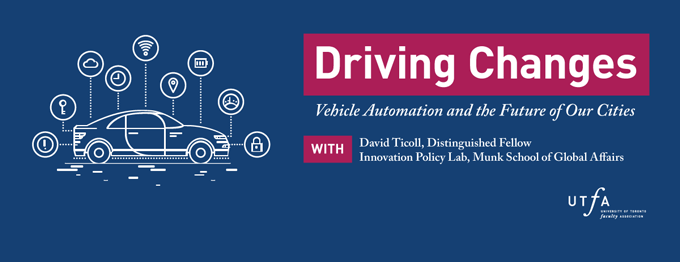
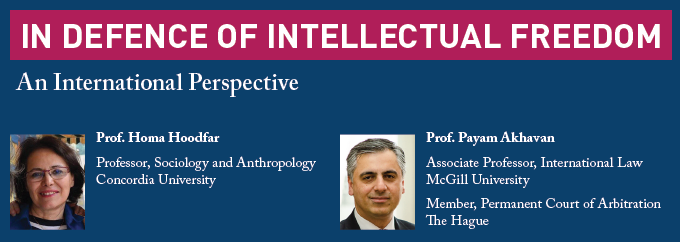
content

diff --git a/cerberus-hybrid.html b/cerberus-hybrid.html
@@ -193,21 +193,31 @@
 						<tr>
 						<td style="padding: 20px; font-family: sans-serif; font-size: 15px; mso-height-rule: exactly; line-height: 20px; color: #555555;">
 							<p>Dear Colleagues,</p>
-							
-							<p>The UTFA Retired Members Committee is hosting a special event, and all UTFA members are invited to attend.</p>
-							
-							<p>David Ticoll, Distinguished Fellow, Innovation Policy Lab, Munk School of Global Affairs, will describe what self-driving cars, trucks and (even) drones are all about, if and when they will become commonplace, the upsides and risks, and what these changes mean for our families, neighbours, and the Canadian economy. He will also discuss some of the key policy and planning choices that we must face. </p>
-							
-							<p>The event will take place on Wednesday, November 24, from 2:00 to 4:30pm at the <a href="https://goo.gl/maps/v6RWgSiRf6L2">Faculty Club, 41 Willcocks St</a>.</p>
-							
-							<p>To attend, RSVP to <a href="mailto:faculty@utfa.org">faculty@utfa.org</a>.</p>
-							
-							<p>If you would like to encourage other members to come, you may also send them to the information page <a href="http://www.utfa.org/content/driving-changes-vehicle-automation-and-future-our-cities">on the UTFA website</a> or <a href="https://www.facebook.com/events/187283188395193/">on Facebook</a>.</p>
-							
+
+							<p>On Friday, February 3, UTFA is hosting a special public event, and all UTFA members  are invited to attend.</p>
+							<p>Professor Mohamad Tavakoli (U of T) will moderate a special panel featuring Professors Homa Hoodfar (Concordia) and Payam Akhavan (McGill), who will discuss intellectual freedom and its international importance.</p>
+							<p>UTFA was active in campaigning for Professor Hoodfar's release from solitary confinement in Iran's Evin prison, where she was held for 112 days in 2016 on accusations of "dabbling in feminism." She was released on September 26, 2016. Professor Hoodfar teaches and researches development, culture and gender in the Middle East.</p>
+              <p>Professor Akhavan teaches international criminal law and dispute settlement, human rights and cultural pluralism. Having appeared as counsel and advocate in leading cases before the International Court of Justice, the International Criminal Court and the Permanent Court of Arbitration, in 2016 he was appointed a Member of the Permanent Court of Arbitration (PCA) in The Hague.</p>
+							<p>The event will take place on Friday, February 3, from 3:30 to 6:30pm at the <a href="http://bit.ly/idoif-map">U of T Earth Sciences Auditorium, 5 Bancroft Ave</a>.</p>
+
+              <!-- Button : BEGIN -->
+              <table role="presentation" cellspacing="0" cellpadding="0" border="0" align="center" style="margin: auto">
+                  <tr>
+                      <td style="border-radius: 3px; background: #222222; text-align: center;" class="button-td">
+                          <a href="http://bit.ly/idoif-rsvp" style="background: #222222; border: 15px solid #222222; font-family: sans-serif; font-size: 13px; line-height: 1.1; text-align: center; text-decoration: none; display: block; border-radius: 3px; font-weight: bold;" class="button-a">
+                              <span style="color:#ffffff;" class="button-link">&nbsp;&nbsp;&nbsp;&nbsp;RSVP now&nbsp;&nbsp;&nbsp;&nbsp;</span>
+                          </a>
+                      </td>
+                  </tr>
+              </table>
+              <!-- Button : END -->
+
+							<p>If you would like to encourage other members to come, you may also send them to the information page <a href="http://www.utfa.org/content/defence-intellectual-freedom-international-perspective">on the UTFA website</a> or <a href="https://www.facebook.com/events/1925038694391017/">on Facebook</a>.</p>
+
 							<p>We look forward to seeing you there!</p>
-							
-							<p>Kent Weaver<br />
-								Chair, Retired Members Committee</p>
+
+							<p>Cynthia Messenger<br />
+								President, UTFA</p>
 						</td>
 						</tr>
                         </table>
@@ -219,7 +229,7 @@
                 <!-- Clear Spacer : BEGIN -->
                 <tr>
                     <td height="40" style="font-size: 0; line-height: 0;">&nbsp;
-                        
+
                     </td>
                 </tr>
                 <!-- Clear Spacer : END -->
